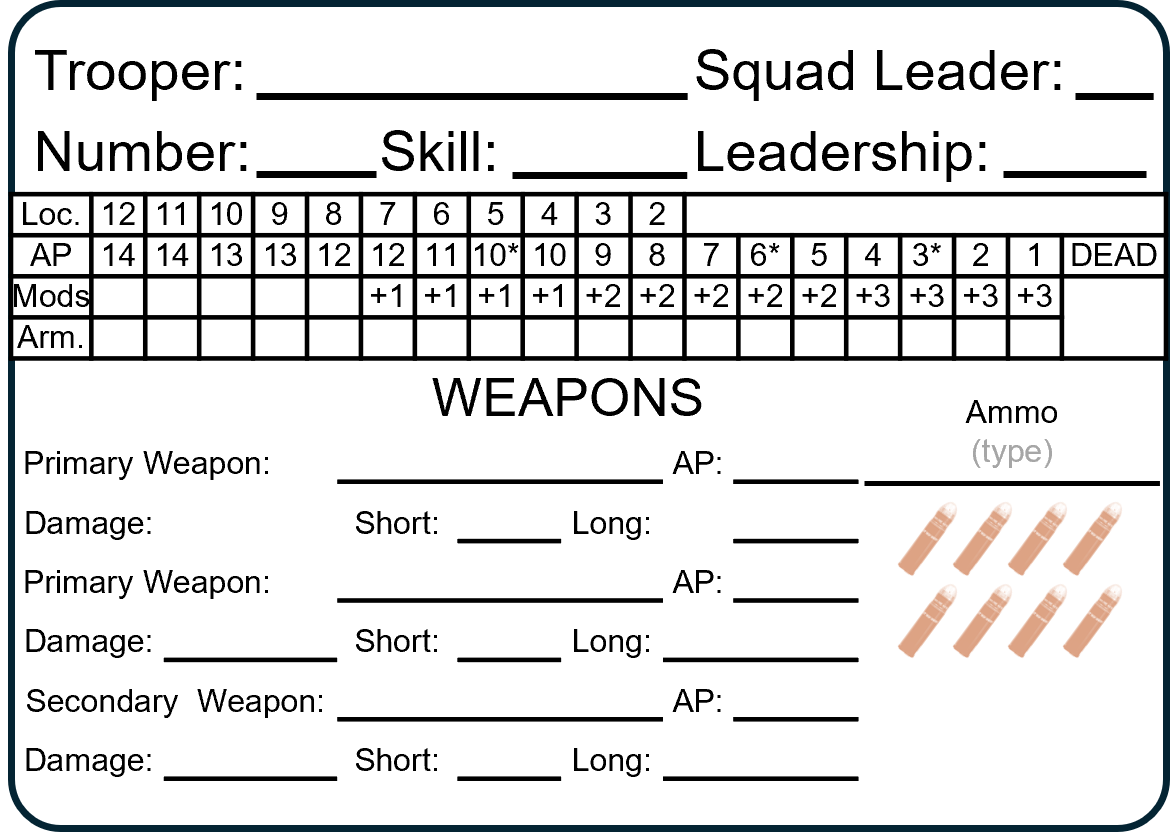
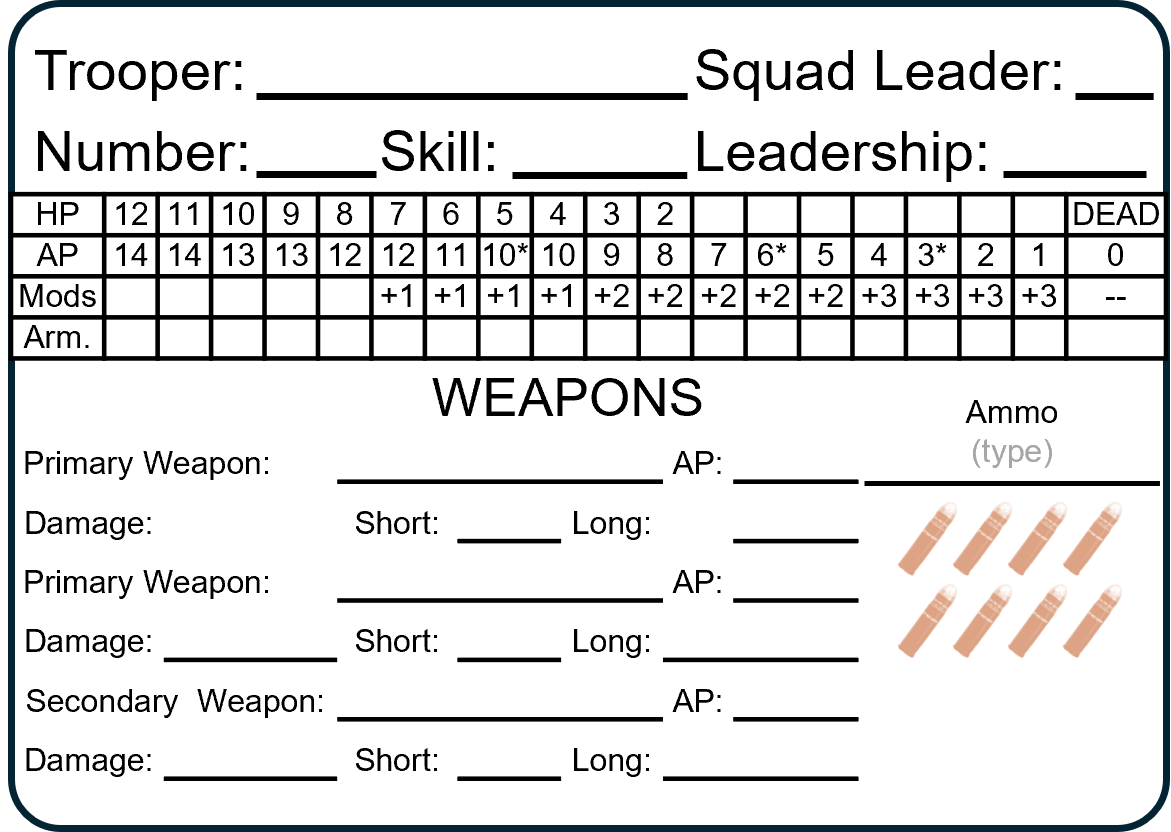
armor updates

Changed region(s): [[0.0, 0.2188, 1.0, 0.4375]]

diff --git a/rules/4-Power-Armor/1-Unit-Card.tex b/rules/4-Power-Armor/1-Unit-Card.tex
@@ -14,33 +14,31 @@ Standard power armor has 6 cells of armor.
 Basic power armor has only 4 cells of armor and heavy power armor has 8 cells of armor.
 All other cells of armor should be marked off before the game.
 
-While the trooper has any cells of armor remaining, bludgeoning damage (\textbackslash) is ignored.
+Power armor troopers ignore bludgeoning damage (\textbackslash).
 However, 9 or more points of bludgeoning damage in a single turn will knock a power armor trooper prone.
-Standard damage (X) destroys armor.
+Standard damage (X) destroys armor before damaging HP cells.
+If a single attack does more damage than the remaining armor, first mark all remaining armor and then mark HP cells starting with the 12 HP cell.
 
-Once all of the armor has been destroyed, then the trooper's HP blocks may be marked.
-Power armor protects the troop, giving them more AP.
-HP cells are fully crossed out when the trooper takes standard damage (X) or partially crossed out when the trooper takes bludgeoning damage (\textbackslash).
+Once all of the armor has been destroyed, then the trooper's HP cells are marked.
+Power armor protects the trooper, giving them more HP than a basic trooper.
+HP cells are fully crossed out when the trooper takes standard damage (X).
 The current HP of the trooper is given by the first cell to the right of the highest fully marked HP cell.
-For example, if the trooper has HP 14, 15, and 11 marked off and HP 10 partially marked, their current HP is 10.
-
-HP cells are labeled in the opposite order for troopers wearing power armor.
-HP cells are labeled from 1 to 18, left to right.
-When marking damage, you still roll 2D6 and apply damage starting with the first unmarked or partially marked HP cell
+For example, if the trooper has HP 10, 9, and 6 marked off, their current HP is 5.
+When marking damage, you still roll 2D6 and apply damage starting with the first unmarked HP cell to the right of the rolled value.
 
 The HP cells marked with * indicate significant damage to the power armor.
 When one of these cells is fully marked, the opponent may choose one of the weapon systems to disable on the power armor suit.
 When two of these cells have been fully marked, the jet pack on the suit no longer functions.
 
 Total action points (AP) for the trooper are given in the AP section.
-Power armor greatly extending the capabilities of troopers, giving them more AP.
+Power armor greatly extends the capabilities of troopers, giving them more AP.
 Use the value in the column corresponding to the trooper's current HP.
-For example, if the trooper has 10 HP, then they have only 10 AP.
+For example, if the trooper has 5 HP, then they have only 10 AP.
 
 As with standard troopers, green troopers in power armor reduce all of their AP values by 1, while veteran troopers increase all values by 1 and elite troopers increase all values by 2.
 
 Similarly, the modifier section tracks the current modifier for the trooper's target numbers based upon current HP.
-For example, if the trooper has 10 HP, then add +1 to all target numbers.
+For example, if the trooper has 5 HP, then add +1 to all target numbers.
 
 Basic and standard power armor comes equipped with a jet pack.
 Heavy power armor is too bulky to use a jet pack.

diff --git a/rules/4-Power-Armor/2-Weapons-Equipment.tex b/rules/4-Power-Armor/2-Weapons-Equipment.tex
@@ -9,13 +9,14 @@ Power armor troopers may use the following primary weapons:
 \ifthenelse{\not \equal{\outworldsMode}{mode-web}}{\fontfamily{Montserrat-LF}}{\small}\selectfont
 \centering
 \newcolumntype{R}[1]{>{\raggedleft\let\newline\\\arraybackslash\hspace{0pt}}m{#1}}
-\begin{tabular}{!{\Vline{1pt}} m{8em} !{\Vline{1pt}} R{4.5em} !{\Vline{1pt}} R{7em} !{\Vline{1pt}} R{7em} !{\Vline{1pt}}}
+\begin{tabular}{!{\Vline{1pt}} m{12.1em} !{\Vline{1pt}} R{6.2em} !{\Vline{1pt}} R{4.5em} !{\Vline{1pt}} R{4.5em} !{\Vline{1pt}} R{7em} !{\Vline{1pt}} R{7em} !{\Vline{1pt}}}
 \Hline{1pt}
-\rowcolor{black!30}  \bfseries{Weapon} & \bfseries{Damage} & \bfseries{Short Range} & \bfseries{Long Range} \\
+\rowcolor{black!30}  \bfseries{Weapon} & \bfseries{Damage} & \bfseries{AP} & \bfseries{Ammo} & \bfseries{Short Range} & \bfseries{Long Range} \\
 \Hline{1pt}
-Small Laser  &      12X & 1-90 & 91-270  \\
-Flamethrower & 8X/4X/2X & 1-10 & 11-20   \\
-Machine Gun* &       6X & 1-30 & 31-84   \\
+Machine Gun*      &           6X & - & - & 1-30 & 31-84   \\
+Small Laser       &          12X & - & - & 1-90 & 91-270  \\
+Flamethrower      &     8X/4X/2X & 4 & - & 1-10 & 11-20   \\
+Anti-Tank Missile & 13X/6X/3X/1X & 5 & 2 & 1-54 & 55-96   \\
 \Hline{1pt}
 \end{tabular}
 \caption*{Primary Weapons}

diff --git a/rules/2-Infantry/1-Unit-Card.tex b/rules/2-Infantry/1-Unit-Card.tex
@@ -12,7 +12,7 @@ Basic information about the trooper, such as their name, rank, squad position nu
 
 Damage to the trooper is tracked in the HP section.
 HP cells are labeled by their HP value, from highest to lowest, 10 to 1, from left to right.
-HP cells are fully crossed out when the trooper takes standard damage (X) or partially crossed out when the trooper takes bludgeoning damage (\textbackslash).
+HP cells are fully crossed out when the trooper takes standard damage (X).
 The current HP of the trooper is given by the first cell to the right of the lowest fully marked HP cell.
 For example, if the trooper has HP 9, 7, and 6 marked off and HP 5 partially marked, their current HP is 5.
 

diff --git a/rules/3-Advanced-Infantry/2-Explosives.tex b/rules/3-Advanced-Infantry/2-Explosives.tex
@@ -26,7 +26,7 @@ Rocket launchers, anti-tank missiles, grenade launchers, auto-grenade launchers,
 Light anti-tank weapons are secondary weapons.
 
 A trooper may carry a grenade launcher as a primary weapon or mount a grenade launcher under a rifle or SMG.
-If mounted undre the rifle or SMG, the launcher takes the place of a secondary weapon.
+If mounted under the rifle or SMG, the launcher takes the place of a secondary weapon.
 A trooper does not have to pay AP to switch between their primary weapon and a launcher.
 An auto-grenade launcher is a separate weapon and cannot be mounted under a rifle or SMG in this fashion.
 
